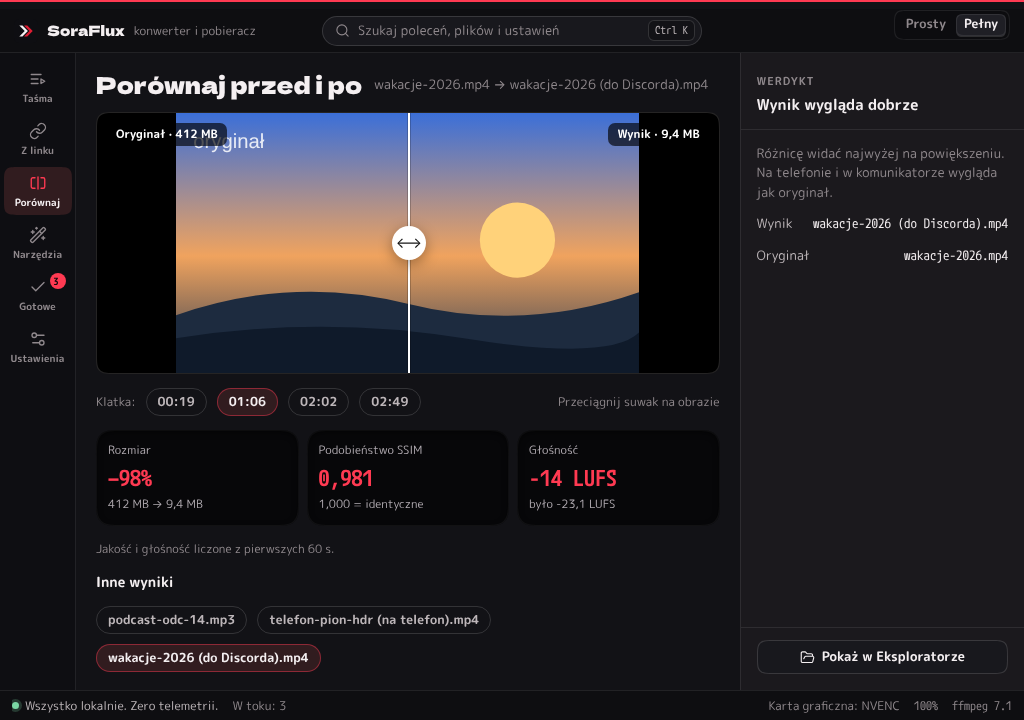
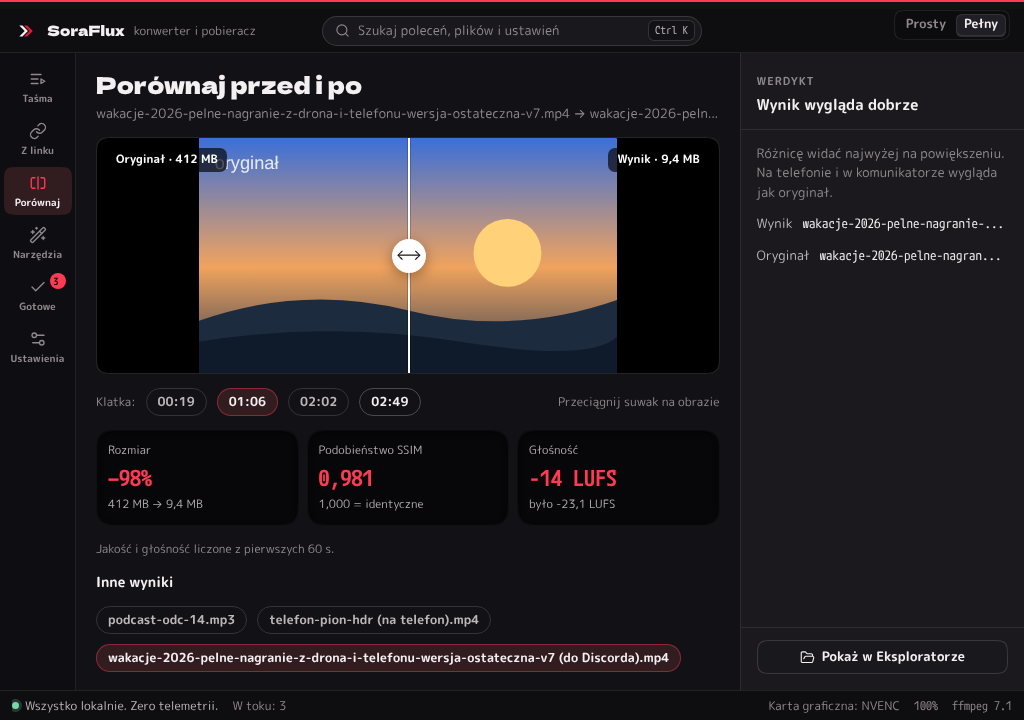
GUI 2.0: poprawki po teście na żywo (licznik „W toku”, panel Werdykt, title na pigułkach)
1. Taśma: licznik „W toku” liczył stan z chwili ostatniego pełnego rysowania. Zdarzenia
   kolejki przerysowują tylko listę i pasek, więc po zakończeniu zadań zostawało „W toku 3”.
   Liczniki chipów liczy teraz `liczbyFiltrow` (tylko oczekuje/trwa) i odświeża je
   `odswiezLiczniki()` przy każdym rysowaniu listy (na miejscu, fokus zostaje).
   Test-strażnik w gui2.test.ts: 3 zadania → wszystkie zakończone → 0.
2. Porównaj → Werdykt: etykiety „Wynik”/„Oryginał” mają flex: none + nowrap, nazwa pliku
   wielokropek + title. Etykiety .wiersz-op nie schodzą poniżej najdłuższego słowa.
   gui2.mjs: nowa kontrola „słowo łamane w środku”, atrapa ma wynik z bardzo długą nazwą.
3. Każda .pigu dostaje title z pełnym tekstem (h()). Atrapa `karta=0`: Taśma bez karty
   graficznej w zrzutach ciemnych (pigułka „nie wykryto, koduje procesor”).
Drobne: w ciasnym wierszu Taśmy z pigułki przepisu zostaje ikona z title zamiast znikać.
gui2.mjs: GUI2_EKRANY=… do uruchamiania wybranych ekranów. Zrzuty gui2 odświeżone.

Claude-Session: https://claude.ai/code/session_01FipzXBefn65vCP5GVoaWvK

diff --git a/src/widoki/tasma.ts b/src/widoki/tasma.ts
@@ -13,7 +13,7 @@ import { uwagi, nazwaFolderu, podgladKomendy, dymekPominietych, dopiszOstatni } 
 import { klasyfikujUpuszczone } from "../upuszczanie";
 import { dymekDodano, pokazDymek, sklep } from "../sklep";
 import {
-  blokada, domyslnyPrzepis, LIMITY, pasujeDoFiltra, profilKoncowy, profilPrzepisu, przepisyDla, rodzajPozycji, rozmiarPo, sprzetZEnkoderow,
+  blokada, domyslnyPrzepis, liczbyFiltrow, LIMITY, pasujeDoFiltra, profilKoncowy, profilPrzepisu, przepisyDla, rodzajPozycji, rozmiarPo, sprzetZEnkoderow,
   stanPozycji, sumy, WLASNY, zadanieDla, type Blokada, type Filtr, type Pozycja, type RodzajPliku,
 } from "../tasma";
 import type { Media, Profil, StanNapisow } from "../typy";
@@ -250,9 +250,9 @@ export function stworzWidokTasmy(): WidokTasmy {
   }
 
   function naglowekListy(): HTMLElement {
-    const ile = (f: Filtr) => pozycje.filter((p) => pasujeDoFiltra(stanPozycji(p, sklep.stan.zadania), blokada(p), f)).length;
+    const ile = liczbyFiltrow(pozycje, sklep.stan.zadania);
     const chip = (f: Filtr) =>
-      h("button", { type: "button", class: "pil", "aria-pressed": String(filtr === f), "data-fokus": `filtr-${f}`, onclick: () => ((filtr = f), rysuj()) }, t(`tasma.filtr.${f}`), h("span", { class: "n" }, String(ile(f))));
+      h("button", { type: "button", class: "pil", "aria-pressed": String(filtr === f), "data-fokus": `filtr-${f}`, onclick: () => ((filtr = f), rysuj()) }, t(`tasma.filtr.${f}`), h("span", { class: "n", "data-filtr": f }, String(ile[f])));
     return h(
       "div",
       { class: "tasma-g" },
@@ -310,8 +310,16 @@ export function stworzWidokTasmy(): WidokTasmy {
     return "";
   }
 
+  /** Liczniki chipów na miejscu (bez przerysowania przycisków: fokus zostaje). Zdarzenia kolejki
+   *  przerysowują tylko listę, więc bez tego „W toku 3” zostawało po zakończeniu wszystkich zadań. */
+  function odswiezLiczniki() {
+    const ile = liczbyFiltrow(pozycje, sklep.stan.zadania);
+    for (const n of lewa.querySelectorAll<HTMLElement>(".tasma-g .n[data-filtr]")) n.textContent = String(ile[n.dataset.filtr as Filtr]);
+  }
+
   function rysujListe() {
     const zadania = sklep.stan.zadania;
+    odswiezLiczniki();
     if (!pozycje.length) {
       lista2.replaceChildren(
         h("div", { class: "pusto2" }, ikona(IKONY.upusc, "ikona"), h("b", null, t("tasma.pusto")), h("span", null, t("tasma.pusto.pomoc"))),
@@ -360,7 +368,12 @@ export function stworzWidokTasmy(): WidokTasmy {
           },
           h("span", { class: "min", style: { background: gradient(p.sciezka) } }, ikona(r ? IKONA_RODZAJU[r] : IKONY.plik, "ikona ic d")),
           h("span", { style: { minWidth: "0" } }, h("span", { class: "nazwa", title: p.sciezka }, nazwaPliku(p.sciezka)), meta),
-          r ? h("span", { class: "przepis", title: nazwaPrzepisu(r, p.przepis) }, ikona(IKONA_PRZEPISU[p.przepis] ?? IKONY.suwaki, "ikona ic m"), nazwaPrzepisu(r, p.przepis), p.przepis === "wyslij" ? ` · ${LIMITY[p.cel]} MB` : "") : h("span"),
+          r
+            ? (() => {
+                const nazwa = nazwaPrzepisu(r, p.przepis) + (p.przepis === "wyslij" ? ` · ${LIMITY[p.cel]} MB` : "");
+                return h("span", { class: "przepis", title: nazwa }, ikona(IKONA_PRZEPISU[p.przepis] ?? IKONY.suwaki, "ikona ic m"), h("span", { class: "tekst tnij" }, nazwa));
+              })()
+            : h("span"),
           h("span", { class: "lcd" }, h("span", { class: "sz" }, `${przed ? formatujRozmiar(przed, jezyk()) : "—"} →`), " ", po !== null ? `${s === "gotowe" ? "" : "~"}${formatujRozmiar(po, jezyk())}` : "—"),
           status ?? h("button", { type: "button", class: "usun", "aria-label": t("tasma.usun", { nazwa: nazwaPliku(p.sciezka) }), title: t("tasma.usun", { nazwa: nazwaPliku(p.sciezka) }), onclick: (e: Event) => (e.stopPropagation(), usun(p)) }, ikona(IKONY.x, "ikona ic m")),
           h("span", { class: "tor", style: { width: `${s === "czeka" ? 0 : procent}%` } }),

diff --git a/src/atrapa.ts b/src/atrapa.ts
@@ -70,6 +70,8 @@ const tx = (pl: string, en: string) => (konfig.jezyk === "en" ? en : pl);
 const MINIATURA = new URL("./atrapa-miniatura.jpg", import.meta.url).href;
 
 const narzedziaZnalezione = parametry.get("kreator") !== "1";
+/** `karta=0`: brak enkodera sprzętowego (Taśma: pigułka „nie wykryto, koduje procesor”). */
+const bezKarty = parametry.get("karta") === "0";
 
 // Napisy: ?napisy=gotowe = model już pobrany, ?napisy=bez_whispera = brak whisper-cli.
 const napisyParam = parametry.get("napisy");
@@ -332,7 +334,8 @@ if (parametry.get("demo") === "1") {
 if (parametry.get("demo") === "1") {
   // GUI 2.0: wyniki z oryginałem (Gotowe: % oryginału, Porównaj: suwak A/B i liczby)
   const gotowe: [string, string, number, number, InfoZadania["rodzaj"], string[]?][] = [
-    [tx("C:/Wideo/wakacje-2026.mp4", "C:/Videos/holiday-2026.mp4"), tx("C:/Wideo/wakacje-2026 (do Discorda).mp4", "C:/Videos/holiday-2026 (for Discord).mp4"), 432_013_312, 9_856_000, "konwersja"],
+    // bardzo długa nazwa: panel „Werdykt” na Porównaj (test na żywo 1.4.2, błąd 2: etykiety łamane litera po literze)
+    [tx("C:/Wideo/wakacje-2026-pelne-nagranie-z-drona-i-telefonu-wersja-ostateczna-v7.mp4", "C:/Videos/holiday-2026-full-recording-from-drone-and-phone-final-version-v7.mp4"), tx("C:/Wideo/wakacje-2026-pelne-nagranie-z-drona-i-telefonu-wersja-ostateczna-v7 (do Discorda).mp4", "C:/Videos/holiday-2026-full-recording-from-drone-and-phone-final-version-v7 (for Discord).mp4"), 432_013_312, 9_856_000, "konwersja"],
     [tx("C:/Wideo/telefon-pion-hdr.mov", "C:/Videos/phone-vertical-hdr.mov"), tx("C:/Wideo/telefon-pion-hdr (na telefon).mp4", "C:/Videos/phone-vertical-hdr (for phone).mp4"), 96_000_000, 10_276_000, "konwersja"],
     [tx("C:/Muzyka/podcast-odc-14.wav", "C:/Music/podcast-ep-14.wav"), tx("C:/Muzyka/podcast-odc-14.mp3", "C:/Music/podcast-ep-14.mp3"), 630_194_000, 43_726_000, "konwersja"],
     [tx("C:/Wideo/koncert.mkv", "C:/Videos/concert.mkv"), tx("C:/Wideo/koncert.a1-pol.m4a", "C:/Videos/concert.a1-pol.m4a"), 1_240_000_000, 61_000_000, "sciezki", [tx("C:/Wideo/koncert.v1.mp4", "C:/Videos/concert.v1.mp4"), tx("C:/Wideo/koncert.a1-pol.m4a", "C:/Videos/concert.a1-pol.m4a"), tx("C:/Wideo/koncert.s1-eng.srt", "C:/Videos/concert.s1-eng.srt")]],
@@ -473,7 +476,7 @@ export const atrapa: Api = {
         ? { ffmpeg: "7.1-full_build-www.gyan.dev", ffprobe: "7.1-full_build-www.gyan.dev", ytdlp: ytdlpStary ? "2026.07.04" : "2026.10.01", deno: "2.5.1", whisper: "1.8.2" }
         : {},
       enkodery: ["libx264", "libx265", "libsvtav1", "libvpx-vp9", "mpeg4", "h264_nvenc", "hevc_nvenc", "aac", "libmp3lame", "libopus", "libvorbis", "flac", "pcm_s16le", "libwebp", "libaom-av1", "png", "mjpeg", "gif", "bmp"],
-      sprzet: narzedziaZnalezione ? ["h264_nvenc", "hevc_nvenc", "av1_nvenc"] : [],
+      sprzet: narzedziaZnalezione && !bezKarty ? ["h264_nvenc", "hevc_nvenc", "av1_nvenc"] : [],
       filtry: ["scale", "zscale", "tonemap", "fps", "palettegen", "paletteuse"],
       do_pobrania: ["ffmpeg", "ffmpeg_full", "ytdlp", "deno"],
       przenosny: false,

diff --git a/src/gui2.test.ts b/src/gui2.test.ts
@@ -5,7 +5,7 @@ import { sklep } from "./sklep";
 import { t, ustawJezyk } from "./i18n";
 import { profilDla } from "./logika";
 import type { InfoZadania, Media, NoweZadanie } from "./typy";
-import { blokada, katalogPozycji, profilKoncowy, przepisyDla, sprzetZEnkoderow, stanPozycji, sumy, WLASNY, zadanieDla, type Pozycja } from "./tasma";
+import { blokada, katalogPozycji, liczbyFiltrow, profilKoncowy, przepisyDla, sprzetZEnkoderow, stanPozycji, sumy, WLASNY, zadanieDla, type Pozycja } from "./tasma";
 import { fragment, lancuch, opcjePobrania, profilCelu, stanPoczatkowy, wyborLinku, linkPlaylisty } from "./link";
 import { kopiaMozliwa, przyciecieDo, profilGlosnosci, profilKontenera, profilGeometrii } from "./obrobka";
 import { krokSkali, poprawSkale, skalaZKlawisza } from "./skala";
@@ -238,6 +238,30 @@ describe("widoki 2.0 na atrapie backendu", () => {
     w.el.querySelector<HTMLButtonElement>('[data-fokus="start"]')!.click();
     await czekaj(10);
     expect(pauza).toHaveBeenCalledWith(true);
+  });
+
+  it("Taśma: licznik „W toku” wraca do 0, gdy wszystkie zadania się skończą (test na żywo 1.4.2, błąd 1)", async () => {
+    const info = (id: number, stan: InfoZadania["stan"]): [number, InfoZadania] => [
+      id, { id, nazwa: `z${id}`, rodzaj: "konwersja", stan, procent: 0, wyjscie: null, rozmiar_wejscia: null, rozmiar_wyniku: null, awaria_sprzetu: false, ostrzezenie: null },
+    ];
+    const w = stworzWidokTasmy();
+    document.body.replaceChildren(w.el);
+    await w.dodaj(["C:/Wideo/wakacje.mp4", "C:/Wideo/telefon-pion-hdr.mov", "C:/Muzyka/podcast-odc-14.wav"]);
+    await czekaj(300);
+    await w.start();
+    expect(dodane[0]).toHaveLength(3);
+    const wToku = () => w.el.querySelector('[data-fokus="filtr-w_toku"] .n')!.textContent;
+    sklep.ustaw({ zadania: new Map([info(100, { typ: "trwa" }), info(101, { typ: "oczekuje" }), info(102, { typ: "oczekuje" })]) });
+    expect(wToku()).toBe("3");
+    sklep.ustaw({ zadania: new Map([info(100, { typ: "gotowe", wyjscie: "a" }), info(101, { typ: "trwa" }), info(102, { typ: "oczekuje" })]) });
+    expect(wToku()).toBe("2");
+    sklep.ustaw({ zadania: new Map([info(100, { typ: "gotowe", wyjscie: "a" }), info(101, { typ: "gotowe", wyjscie: "b" }), info(102, { typ: "pominiete", wyjscie: "c" })]) });
+    expect(w.el.querySelectorAll(".poz .status.ok")).toHaveLength(3);
+    expect(wToku()).toBe("0");
+    // czysta logika licznika: tylko oczekuje / trwa (pauza = oczekuje we wstrzymanej kolejce)
+    const zadania = new Map([info(1, { typ: "gotowe", wyjscie: "a" }), info(2, { typ: "anulowane" }), info(3, { typ: "blad", komunikat: "x" }), info(4, { typ: "oczekuje" })]);
+    const lista = [1, 2, 3, 4].map((n) => pozycja({ nr: n, zadanie: n }));
+    expect(liczbyFiltrow(lista, zadania)).toEqual({ wszystko: 4, w_toku: 1, bledy: 1 });
   });
 
   it("Z linku: fragment i cel w jednym zadaniu pobrania z konwersją potem", async () => {

diff --git a/src/dna.css b/src/dna.css
@@ -142,7 +142,10 @@
 .baner.zle > .ikona { color: var(--bad); }
 .baner > span { min-width: 0; overflow-wrap: anywhere; }
 .wiersz-op { display: flex; align-items: center; justify-content: space-between; gap: 10px; font-size: 13px; min-width: 0; }
-.wiersz-op > span:first-child { color: var(--tx2); min-width: 0; overflow-wrap: anywhere; }
+/* etykieta nie schodzi poniżej najdłuższego słowa (bez min-width: 0 i „anywhere” łamała się litera po literze) */
+.wiersz-op > span:first-child { color: var(--tx2); overflow-wrap: break-word; }
+/* krótka etykieta przy nazwie pliku (Porównaj → Werdykt: „Wynik”, „Oryginał”): zawsze w jednej linii, nazwa z wielokropkiem */
+.wiersz-op > .et-stala { flex: none; white-space: nowrap; }
 .wiersz-zawijany { display: flex; flex-wrap: wrap; gap: 10px; align-items: center; min-width: 0; }
 .pole-w { display: flex; align-items: center; gap: 8px; font-size: 12.5px; color: var(--tx2); min-width: 0; }
 .pole-w.kolumna { flex-direction: column; align-items: stretch; gap: 8px; }
@@ -238,9 +241,10 @@
 .poz .usun { width: 28px; height: 28px; border-radius: 9px; border: 0; background: transparent; color: var(--tx3); display: grid; place-items: center; cursor: pointer; }
 .poz .usun:hover { background: var(--panel3); color: var(--tx); }
 /* zapytania względem .tresc: szeroko lista ma ~(treść − panel), wąsko (≤ 860) całą szerokość */
-@container (min-width: 861px) and (max-width: 940px) { .poz { grid-template-columns: 44px minmax(0, 1fr) auto 30px; } .poz .przepis { display: none; } .poz .min { width: 44px; } }
-@container (max-width: 640px) { .poz { grid-template-columns: 44px minmax(0, 1fr) auto 30px; } .poz .przepis { display: none; } .poz .min { width: 44px; } }
-@container (max-width: 460px) { .poz .lcd { display: none; } .poz { grid-template-columns: 44px minmax(0, 1fr) 30px; } }
+/* ciasno: z pigułki przepisu zostaje sama ikona (pełna nazwa w title), żeby przepis był widać w każdym wierszu */
+@container (min-width: 861px) and (max-width: 940px) { .poz { grid-template-columns: 44px minmax(0, 1fr) auto auto 30px; } .poz .przepis { width: 26px; padding: 0; justify-content: center; } .poz .przepis .tekst { display: none; } .poz .min { width: 44px; } }
+@container (max-width: 640px) { .poz { grid-template-columns: 44px minmax(0, 1fr) auto auto 30px; } .poz .przepis { width: 26px; padding: 0; justify-content: center; } .poz .przepis .tekst { display: none; } .poz .min { width: 44px; } }
+@container (max-width: 460px) { .poz .lcd { display: none; } .poz { grid-template-columns: 44px minmax(0, 1fr) auto 30px; } }
 .pusto2 { margin: 12px; padding: 28px 18px; border-radius: 18px; border: 1.5px dashed var(--line2); text-align: center; color: var(--tx3); display: flex; flex-direction: column; align-items: center; gap: 8px; }
 .pusto2 b { color: var(--tx); font-size: 15px; }
 .pusto2 .ikona { width: 32px; height: 32px; color: var(--ak-tx); }

diff --git a/src/widoki/porownaj.ts b/src/widoki/porownaj.ts
@@ -177,8 +177,8 @@ export function stworzWidokPorownania(): WidokPorownania {
         "div",
         { class: "panel-s" },
         h("p", { class: "tx3", style: { margin: "0", fontSize: "13px" } }, t(`porownaj.werdykt.${w}.opis`)),
-        z?.wyjscie ? h("div", { class: "wiersz-op" }, h("span", null, t("porownaj.wynik")), h("span", { class: "mono tnij", title: z.wyjscie }, nazwaPliku(z.wyjscie))) : null,
-        z?.wejscie ? h("div", { class: "wiersz-op" }, h("span", null, t("porownaj.oryginal")), h("span", { class: "mono tnij", title: z.wejscie }, nazwaPliku(z.wejscie))) : null,
+        z?.wyjscie ? h("div", { class: "wiersz-op" }, h("span", { class: "et-stala" }, t("porownaj.wynik")), h("span", { class: "mono tnij", title: z.wyjscie }, nazwaPliku(z.wyjscie))) : null,
+        z?.wejscie ? h("div", { class: "wiersz-op" }, h("span", { class: "et-stala" }, t("porownaj.oryginal")), h("span", { class: "mono tnij", title: z.wejscie }, nazwaPliku(z.wejscie))) : null,
       ),
       h(
         "div",

diff --git a/src/tasma.ts b/src/tasma.ts
@@ -140,6 +140,17 @@ export function pasujeDoFiltra(s: StanPozycji, b: Blokada | null, f: Filtr): boo
   return true;
 }
 
+/** Liczniki chipów filtra nad listą: „W toku” = tylko pozycje w kolejce (oczekuje / pauza) albo w trakcie. */
+export function liczbyFiltrow(pozycje: Pozycja[], zadania: Map<number, InfoZadania>): Record<Filtr, number> {
+  const n: Record<Filtr, number> = { wszystko: 0, w_toku: 0, bledy: 0 };
+  for (const p of pozycje) {
+    const s = stanPozycji(p, zadania);
+    const b = blokada(p);
+    for (const f of ["wszystko", "w_toku", "bledy"] as const) if (pasujeDoFiltra(s, b, f)) n[f]++;
+  }
+  return n;
+}
+
 /** Szacunek „po” dla pozycji: wynik zadania, gdy gotowe; inaczej szacunek przepisu. „Już się mieści” = bez zmian. */
 export function rozmiarPo(p: Pozycja, szacunek: number | null, zadania: Map<number, InfoZadania>): number | null {
   const z = p.zadanie !== null ? zadania.get(p.zadanie) : undefined;

diff --git a/src/dom.ts b/src/dom.ts
@@ -30,6 +30,9 @@ export function h<K extends keyof HTMLElementTagNameMap>(
     }
   }
   dolacz(el, dzieci);
+  // Pigułka ma max-width i wielokropek (np. „nie wykryto, koduje procesor” przy skali 120%):
+  // pełny tekst zawsze w `title`, żeby ucięta dało się odczytać.
+  if (el.classList.contains("pigu") && !el.hasAttribute("title") && el.textContent?.trim()) el.title = el.textContent.trim();
   return el;
 }
 
